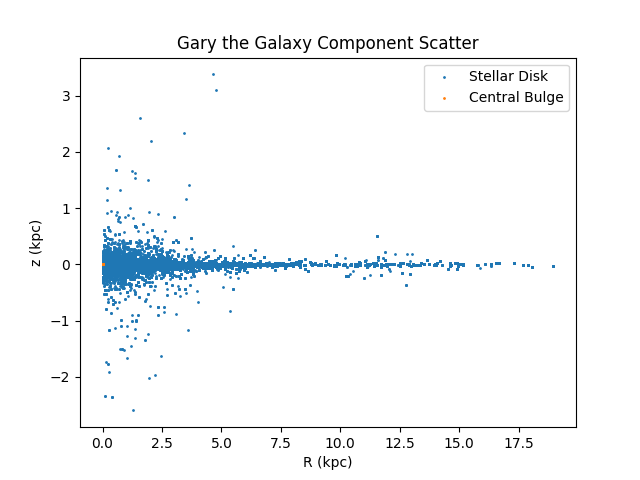
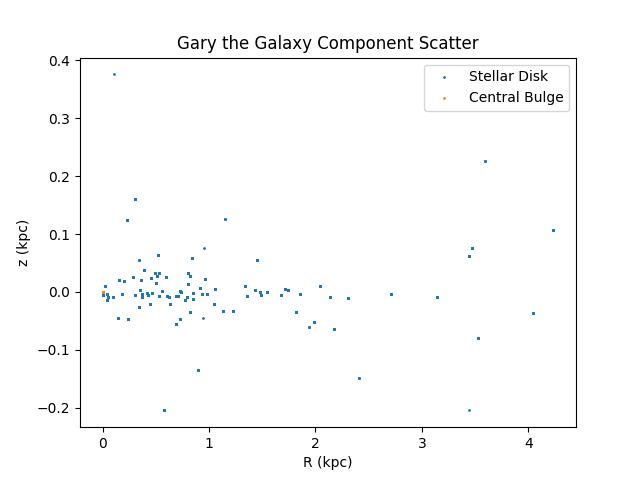
Updated distribution functions for Hernquist

diff --git a/backend/galaxy_distribution2.py b/backend/galaxy_distribution2.py
@@ -4,6 +4,7 @@ import json
 import astropy.units as u
 from mcmc import metropolis_hastings
 from galpy.potential import MiyamotoNagaiPotential, HernquistPotential, NFWPotential
+from galaxy_intitialisation import elliptical_galaxy_gen
 
 # Galaxy generation function
 class Galaxy:
@@ -27,6 +28,7 @@ class Galaxy:
                     potential['parameters'].update({'normalise': 1})
                     potential['galpy_potential'] = NFWPotential(a=parameters['a']*pos_units)
         
+        # Calculate total potential of galaxy to use for rotational velocity
         self.total_potential = self.get_total_potential()
         
         # Generate bodies from components
@@ -36,6 +38,7 @@ class Galaxy:
                 positions = self.generate_positions(component, num_bodies_comp)
                 velocities = self.generate_velocities(positions, self.total_potential)
                 component.update({'bodies': {'positions': positions, 'velocities': velocities}})
+                  
                     
     # Get total mass of galaxy from all components    
     def get_total_mass(self):
@@ -87,18 +90,50 @@ class Galaxy:
                 y = R * np.sin(theta)
                 
                 positions = np.vstack((positions, np.column_stack((x, y, z))))
+                print(f"Num. bodies in {potential['type']}: {pot_bodies}")
                 
-            else: # Hernquist or NFW (Spherical potentials) 
-                density = lambda r: potential['galpy_potential'].dens(r + 1e-10, 0)
-                samples = metropolis_hastings(density, 1, num_bodies)
+            else: # Hernquist
+                #density = lambda r: potential['galpy_potential'].dens(r + 1e-10, 0)
+                #samples = metropolis_hastings(density, 1, num_bodies)
+                samples = elliptical_galaxy_gen(pot_bodies, a=potential['parameters']['a'])
+                
+                # Scale samples to the radius of "a"
+                scale = potential['parameters']['a'] / np.percentile(samples, 99)
+                print(f"Scale: {scale}")
+                samples = samples * scale
+                
+                # Reject samples outside the maximum radius of the galaxy
+                samples = samples[samples < self.get_galaxy_max_radius()]
+                
+                samples = samples.reshape(-1, 1)
                 print(samples)
-                direction = np.random.normal(size=(num_bodies, 3))
+                print(f"Num. bodies in {potential['type']}: {pot_bodies}")
+                
+                # Generate random directions for bodies
+                direction = np.random.normal(size=(np.size(samples), 3))
                 direction /= np.linalg.norm(direction, axis=1).reshape(-1, 1)
-                print(direction)
+                #print(direction)
                 
                 positions = np.vstack((positions, samples * direction))
+                #print(f"Positions: {positions}")
         
         return positions
+    
+    def get_galaxy_max_radius(self):
+        max_radius = 0
+        for component in self.components:
+            for potential in component['potentials']:
+                if potential['type'] == 'Miyamoto-Nagai':
+                    a = potential['parameters']['a']
+                    b = potential['parameters']['b']
+                    if a > max_radius:
+                        max_radius = a
+                    if b > max_radius:
+                        max_radius = b
+                else:
+                    if potential['parameters']['a'] > max_radius:
+                        max_radius = potential['parameters']['a']
+        return max_radius
     
     def generate_velocities(self, bodies, total_potential):
         pass
@@ -123,6 +158,7 @@ class Galaxy:
         plt.ylabel('z (kpc)')
 
         plt.savefig(f'backend/galaxy_plots/{self.name}_density_hexbin.png')
+        plt.show()
         
     def plot_component_scatter(self):
         plt.figure()
@@ -138,7 +174,8 @@ class Galaxy:
         plt.xlabel('R (kpc)')
         plt.ylabel('z (kpc)')
         #plt.xscale('log')
-        plt.savefig(f'backend/galaxy_plots/{self.name}_component_scatter.png')
+        #plt.savefig(f'backend/galaxy_plots/{self.name}_component_scatter.png')
+        plt.show()
         
         
         
@@ -151,7 +188,7 @@ class Galaxy:
 def main():
     with open('backend/galaxies/generic.json', 'r') as f:
         galaxy_json = json.load(f)
-    galaxy = Galaxy(galaxy_json['name'], galaxy_json['components'], num_bodies=1000000)
+    galaxy = Galaxy(galaxy_json['name'], galaxy_json['components'], num_bodies=10000)
     print(galaxy.total_mass)
     galaxy.plot_scatter_density()
     galaxy.plot_component_scatter()

diff --git a/backend/galaxy_intitialisation.py b/backend/galaxy_intitialisation.py
@@ -4,6 +4,7 @@ import sympy as sp
 from latex2sympy2 import latex2sympy as l2s
 from star_types import get_random_star
 from astropy import units as u
+from galpy.potential import HernquistPotential
 
 # Method taken from https://bjerkeli.se/onewebmedia/thesis.pdf
 
@@ -25,7 +26,8 @@ hernquist = {
 }
 
 # Define elliptical galaxy generation function using the Hernquist distribution
-def elliptical_galaxy_gen(num_bodies, max_radius, total_mass, a=1, G=G.value):
+#def elliptical_galaxy_gen(num_bodies, max_radius, total_mass, a=1, G=G.value):
+def elliptical_galaxy_gen(num_bodies, a=1):
     # Generate positions
     ## Draw random mass fractions and solve for radius
     mass_fractions = np.random.rand(num_bodies)
@@ -37,7 +39,13 @@ def elliptical_galaxy_gen(num_bodies, max_radius, total_mass, a=1, G=G.value):
     #print(radius_solutions)
     
     radius = radius_solutions_func(mass_fractions, a)
-    #print(radius)
+    #print(f"Radius: {radius}")
+    
+    return radius
+    
+    """plt.hist(radius, bins=100, density=True)
+    plt.xscale("log")
+    plt.show()
     
     ## Randomly distribute on a sphere of corresponding radius
     ### Generate random positions
@@ -70,12 +78,12 @@ def elliptical_galaxy_gen(num_bodies, max_radius, total_mass, a=1, G=G.value):
     
     # V^2_circ = GMr(r+a)^-2
     
-    return positions, radius
+    return positions, radius"""
 
 def main():
     # Test the elliptical galaxy generation function
     radius = 40e3 # parsecs
-    num_bodies = 5
+    num_bodies = 1000
     total_mass = 1e9 # solar masses
     G_const = G.to_value(u.pc**3 / (u.M_sun * u.s**2))
     print(f"G: {G_const}")
@@ -143,4 +151,5 @@ def main():
 
     plt.show()
     
-main()
+if __name__ == '__main__':
+    main()

diff --git a/backend/inverse_sampling.py b/backend/inverse_sampling.py
@@ -2,21 +2,33 @@ import numpy as np
 import matplotlib.pyplot as plt
 from galpy.potential import HernquistPotential
 import tqdm as tqdm
+from scipy.optimize import fsolve, brentq
 
-def mass_fraction_sampling(density, num_samples, total_mass=1):
-    mass_fractions = np.linspace(0, 1, num_samples)
+# Sample from the mass fraction of a density distribution
+def mass_fraction_sampling(potential, num_samples, total_mass=1):
+    radii = np.linspace(0, 2, 1000)
+    cumulative_mass = [potential.mass(r) for r in radii]
+    cumulative_mass = np.array(cumulative_mass)
+    mass = np.diff(cumulative_mass)
     
+    cdf = np.cumsum(mass)
+    cdf = cdf / cdf[-1]
     
+    samples = np.zeros(num_samples)
+    for i in range(num_samples):
+        p = np.random.uniform()
+        r = np.interp(p, cdf, radii)
+        samples[i] = r
     
     
     return samples
 
 
 def main():
-    num_samples = 100
+    num_samples = 1000
     hernquist = HernquistPotential(a=1, normalize=1)
     density = lambda r: hernquist.dens(r, 0)
-    samples = mass_fraction_sampling(density, num_samples)
+    samples = mass_fraction_sampling(hernquist, num_samples)
     #print(samples)
     plt.figure(1)
     plt.hist(samples, bins=100, density=True, color='r', alpha=0.7, label='Inverse Sampling')
@@ -27,7 +39,9 @@ def main():
     plt.xlabel('r')
     plt.ylabel('Density')
     plt.xlim(-0.1, 2)
-    plt.savefig('backend/inverse_sampling_plots/hernquist_density.png')
+    plt.yscale('log')
+    #plt.savefig('backend/inverse_sampling_plots/hernquist_density.png')
+    plt.show()
     
     '''# Plot CDF of Hernquist density
     cdf, r = mass_fraction_sampling(density, num_samples)

diff --git a/backend/hernquist_distribution.py b/backend/hernquist_distribution.py
@@ -1,0 +1,41 @@
+import numpy as np
+from matplotlib import pyplot as plt
+import sympy as sp
+from latex2sympy2 import latex2sympy as l2s
+from galpy.potential import HernquistPotential
+
+mass_frac_l2s = l2s(r"M_f=\frac{r^2}{(r+a)^2}")
+
+M_r, r, a_symbol = sp.symbols("M_r r a")
+mass_frac_eq = sp.Eq(mass_frac_l2s, M_r)
+radius_solutions = sp.solve(mass_frac_eq, r)
+radius_solutions_func = sp.lambdify((M_r, a_symbol), radius_solutions[0])
+
+def hernquist_mass_fraction_sampling(num_samples, a=1):
+    mass_fractions = np.random.rand(num_samples)
+    radius = radius_solutions_func(mass_fractions, a)
+    return radius
+
+def main():
+    num_samples = 1000
+    hernquist = HernquistPotential(a=1, normalize=1)
+    density = lambda r: hernquist.dens(r, 0)
+    samples = hernquist_mass_fraction_sampling(num_samples)
+    
+    plt.figure(1)
+    plt.hist(samples, bins=100, density=True, color='r', alpha=0.7, label='Mass Fraction Sampling')
+    r = np.linspace(0, 2, 1000)
+    #plt.plot(r, density(r), 'r', label='Hernquist Density')
+    plt.legend(loc='upper right', shadow=True)
+    plt.title('Mass Fraction Sampling of Hernquist Density')
+    plt.xlabel('r')
+    plt.ylabel('Density')
+    plt.xlim(-0.1, 2)
+    #plt.yscale('log')
+    plt.show()
+
+    
+    
+    
+if __name__ == '__main__':
+    main()

diff --git a/backend/mcmc.py b/backend/mcmc.py
@@ -33,7 +33,7 @@ def main():
     # Plot density for Miyamoto-Nagai potential
     R = np.linspace(0.1, 10, 1000)
     z = np.linspace(-10, 10, 1000)
-    a = 1.2
+    a = 10
     b = 0.1
     R, z = np.meshgrid(R, z)
     potential = MiyamotoNagaiPotential(a=a, b=b, normalize=1)
@@ -46,10 +46,11 @@ def main():
     plt.xlim(0, 5)
     plt.ylim(-1, 1)
     plt.savefig('backend/mcmc_plots/miyamoto_nagai_density.png')
+    #plt.show()
     print('MCMC plots saved to backend/mcmc_plots')
 
     # Sample from Miyamoto-Nagai potential density using MCMC
-    n_samples = 1000000
+    n_samples = 100000
     density = lambda R, z: potential.dens(R, z, 0)
     samples = metropolis_hastings(density, 2, n_samples)
 
@@ -65,6 +66,7 @@ def main():
     plt.xlim(0, 5)
     plt.ylim(-1, 1)
     plt.savefig('backend/mcmc_plots/miyamoto_nagai_samples_hexbin.png')
+    plt.show()
 
 
 if __name__ == "__main__":
